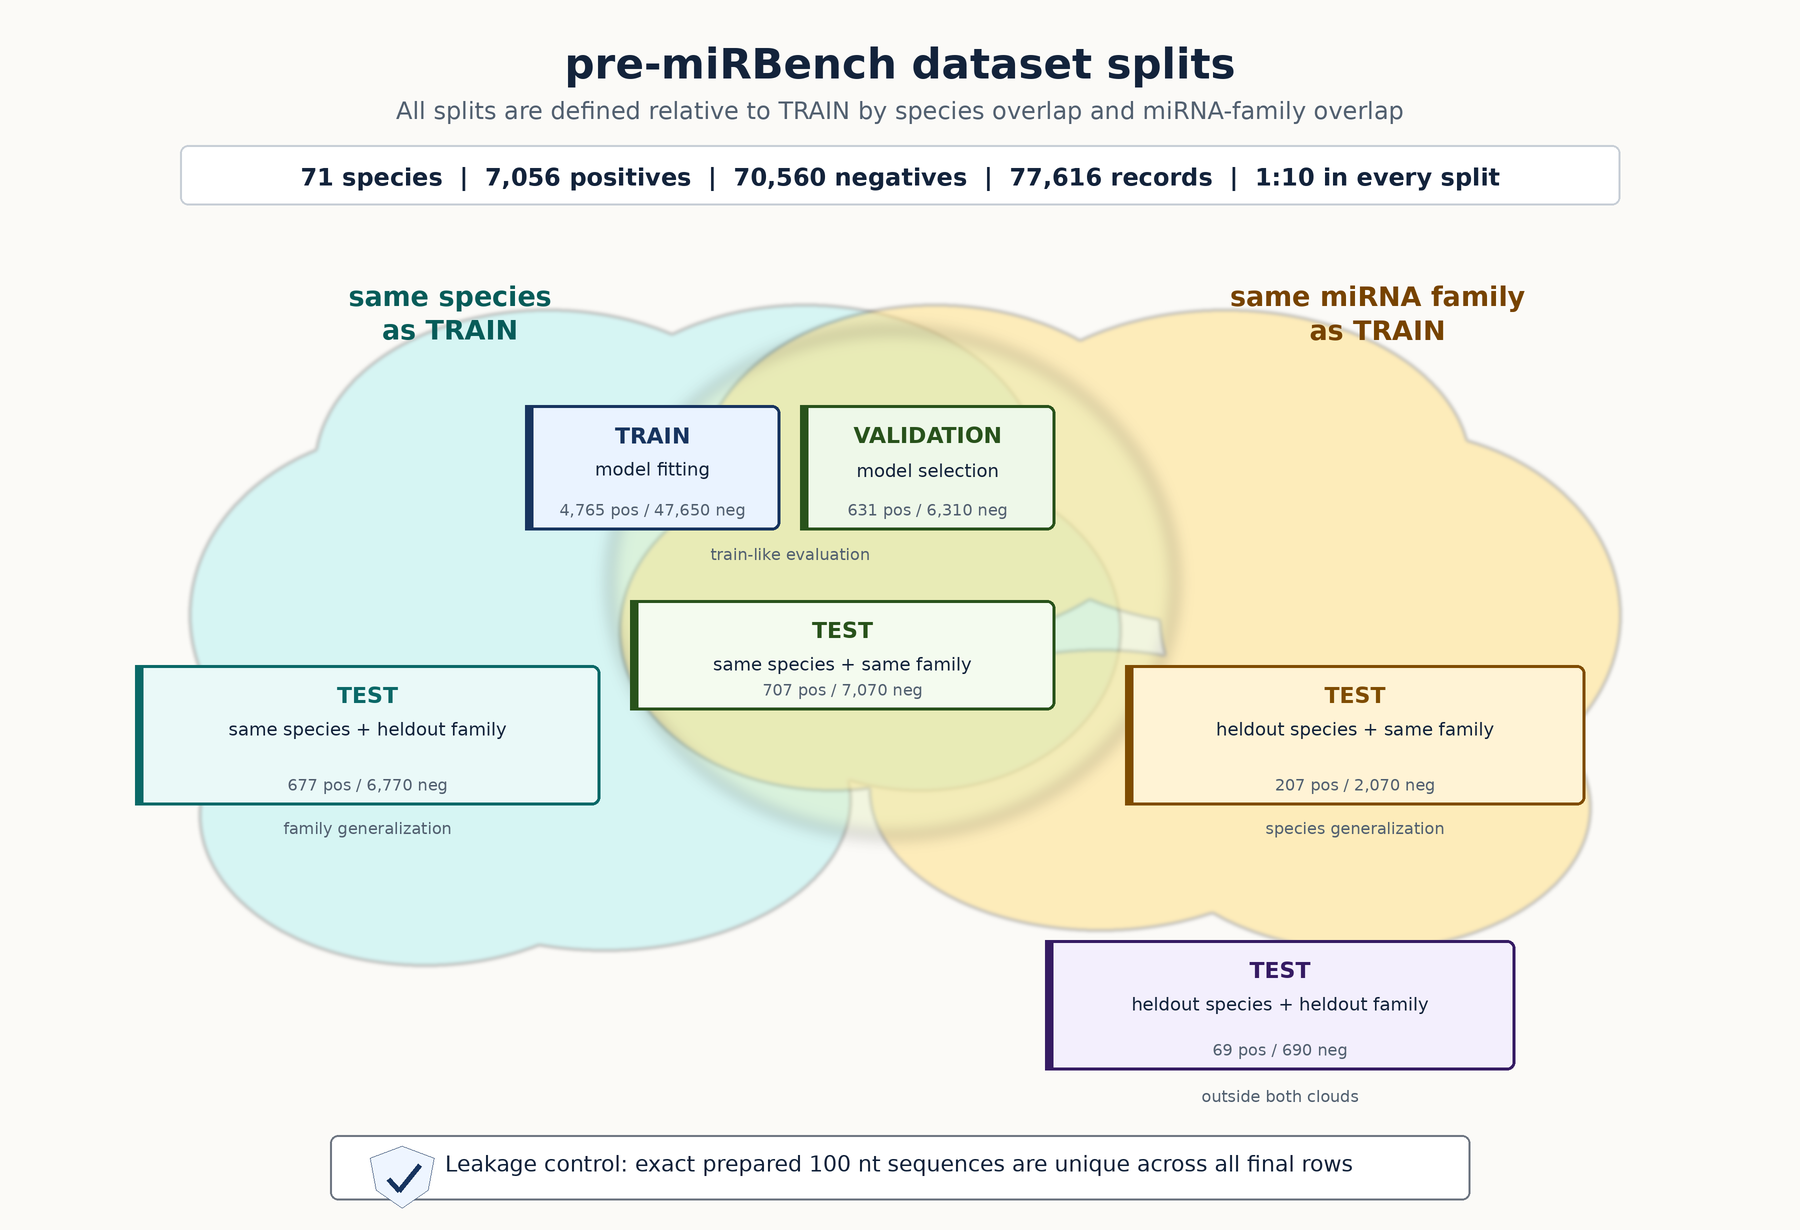
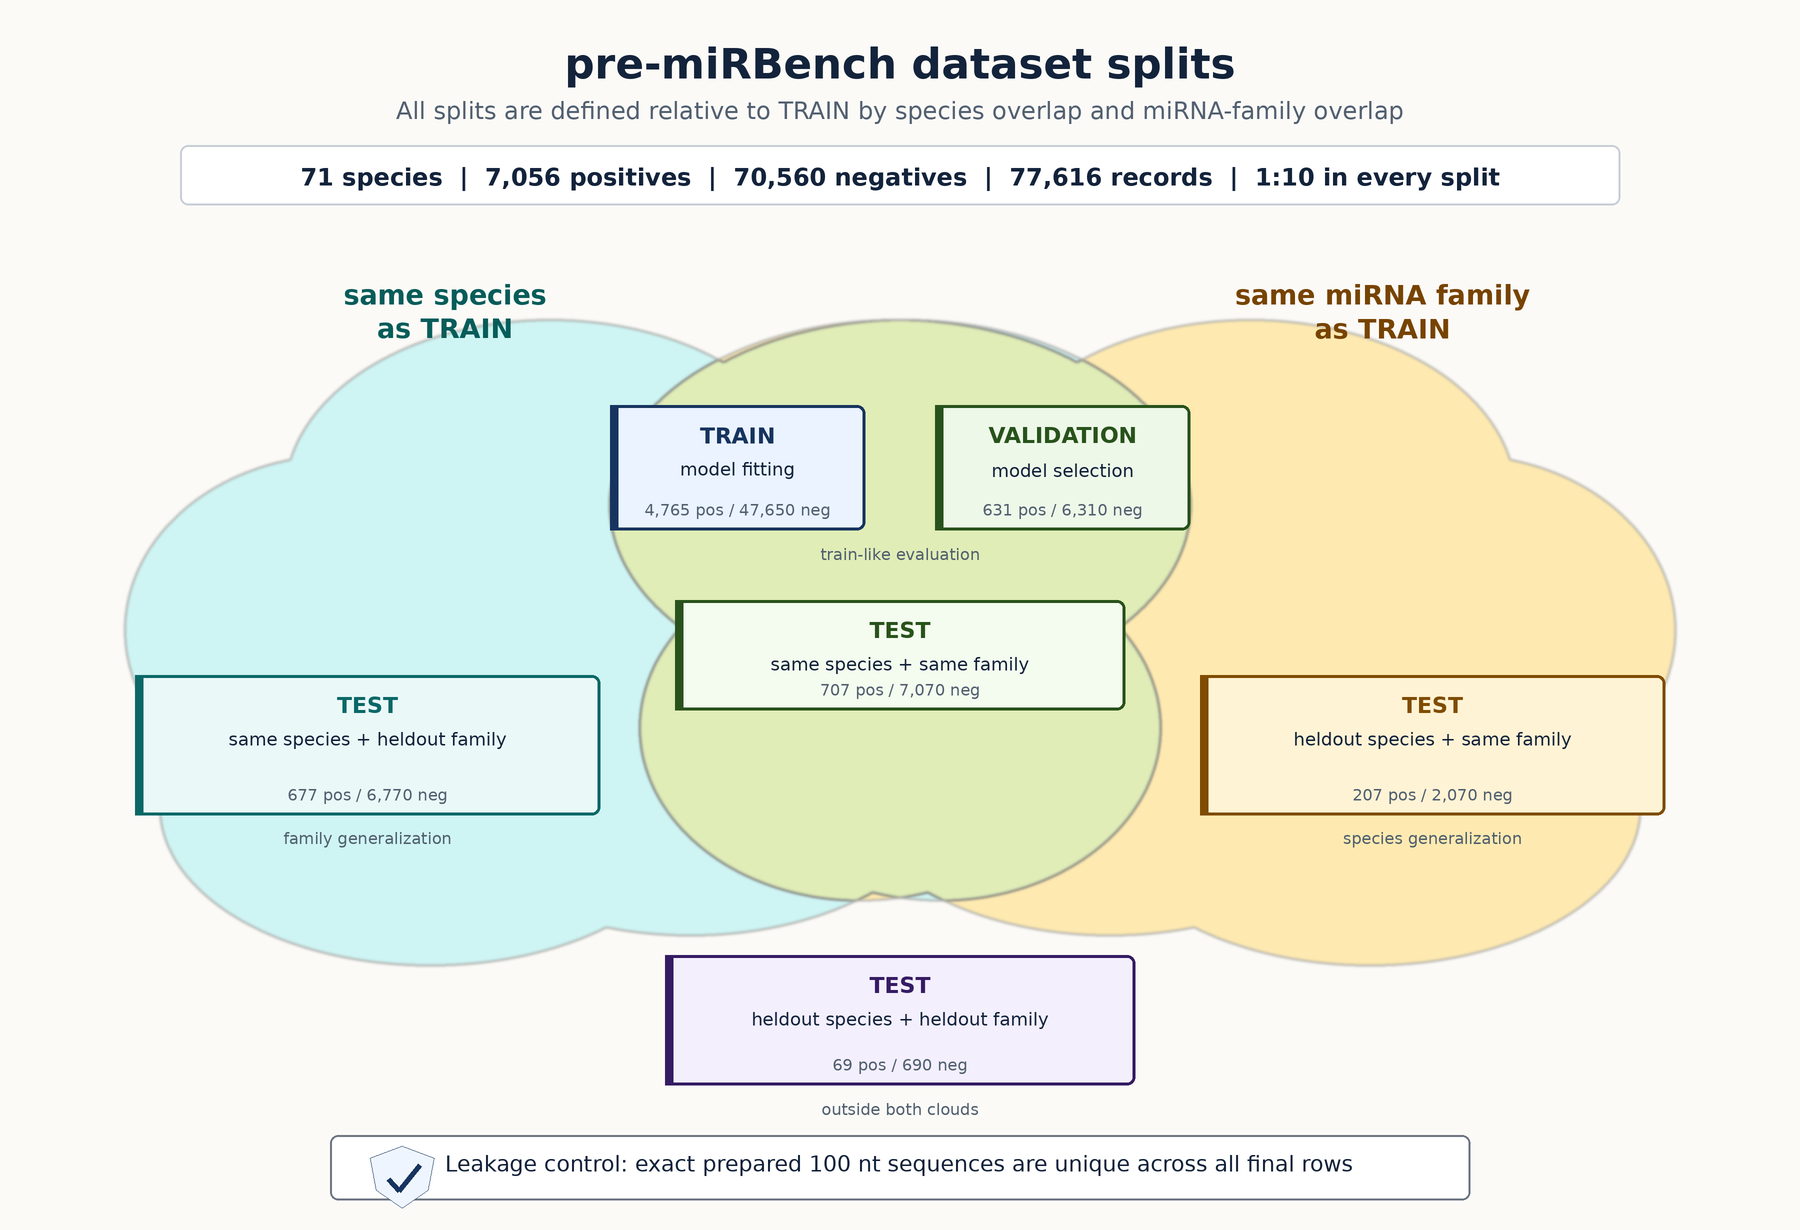
Document positive deduplication strategy

Changed region(s): [[0.0622, 0.2163, 0.9333, 0.9268], [0.1556, 0.3089, 0.1867, 0.3707], [0.28, 0.7724, 0.3111, 0.8033]]

diff --git a/README.md b/README.md
@@ -77,7 +77,12 @@ The dataset builder creates one validation split and four test splits:
 The canonical leakage key is the exact prepared 100 nt sequence. No final row is
 allowed to share this key with any other final row, including train/validation,
 train/test, test/test, within-split duplicates, and positive/negative conflicts.
-Duplicate positives are collapsed before negative selection. Negatives are
+Positive rows are assigned to splits before de-duplication, then exact 100 nt
+duplicate positives are collapsed by keeping the row in the strictest split:
+`test_heldout_species_heldout_family`, `test_heldout_species_known_family`,
+`test_known_species_heldout_family`, `test_known_species_known_family`, `valid`,
+then `train`. Ties inside the same priority class are resolved deterministically
+by species, family, miRNA id, chromosome, start, and window id. Negatives are
 selected after the positive splits are fixed, using train positives for
 hard-negative mining, and each split is validated against the requested
 negative:positive ratio. The builder writes `leakage_report.csv` next to

diff --git a/panels/mirgenedb_71/README.md b/panels/mirgenedb_71/README.md
@@ -62,6 +62,14 @@ The canonical leakage key is the exact prepared 100 nt sequence. No final row
 shares that key with any other final row, including train/validation, train/test,
 test/test, within-split duplicates, or positive/negative conflicts.
 
+Positive de-duplication happened after positive split assignment. When multiple
+positive rows had the same exact 100 nt sequence, the retained row was chosen by
+split priority: `test_heldout_species_heldout_family`,
+`test_heldout_species_known_family`, `test_known_species_heldout_family`,
+`test_known_species_known_family`, `valid`, then `train`. This preserves the
+strictest evaluation copy when a duplicate sequence appears in more than one
+split. The 2026-07-04 build excluded 1,259 duplicate positive rows by this rule.
+
 The build stdout was not captured to a persistent log file. Persistent run
 artifacts are the raw `panel.tsv`, per-species normalization reports,
 per-species BED/genome validation reports, per-species build stats, final split
